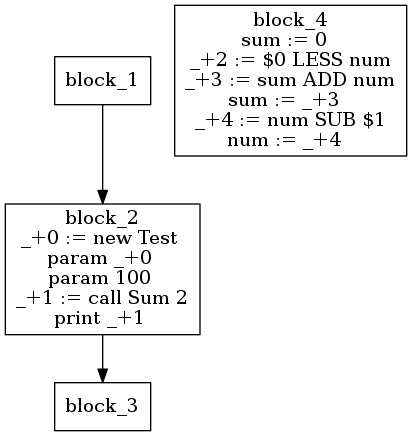
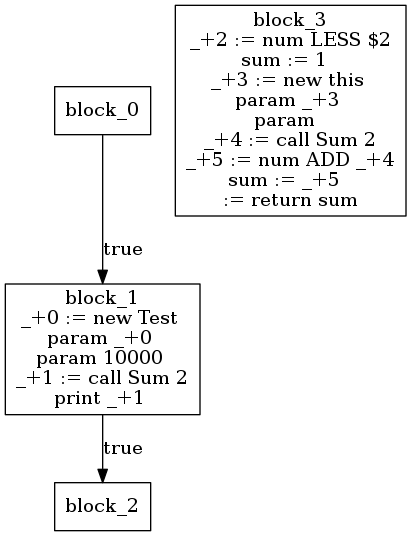
While and return

diff --git a/assignment_3/ir.h b/assignment_3/ir.h
@@ -1,5 +1,6 @@
 #include <string>
 #include <vector>
+#include <set>
 #include <iostream>
 #include "Node.h"
 
@@ -121,9 +122,9 @@ class MethodCall : public Tac {
     }
 };
 
-class Return : public Tac {
+class ReturnTac : public Tac {
     public:
-    Return(string op)
+    ReturnTac(string op)
     {   
         this->lhs = "return";
         this->op = op;
@@ -206,7 +207,7 @@ class BBlock {
 };
 
 class IR {
-    BBlock curr_block;
+    BBlock* curr_block;
     Node *save_root;
 
     public:
@@ -216,15 +217,14 @@ class IR {
         {
             
             this->save_root = root;
-            BBlock* curr_block = new BBlock;//create first block
+            curr_block = new BBlock;//create first block
             entryBlocks.push_back(curr_block);
-            BBlock* new_bb = create_bb(curr_block, save_root, symbol_table);
-            curr_block->trueExit = new_bb;
-
+            traverse_ast(root, symbol_table);
+            
             return;
         }
 
-        string traverse_ast(BBlock* parent_bb, Node* root, SymbolTable* symbol_table, string tempVar = "")
+        string traverse_ast(Node* root, SymbolTable* symbol_table, string tempVar = "")
         {
             cout << "traversing " << root->type << ", Children: "<< root->children.size() << endl;
             // Iterate on all children and add the corresponding TAC
@@ -249,7 +249,7 @@ class IR {
                 }
                 else
                 {
-                    lhs = traverse_ast(parent_bb, root->children.front(), symbol_table);
+                    lhs = traverse_ast(root->children.front(), symbol_table);
                 }
                 cout << "lhs: " << lhs << endl;
                 // rhs
@@ -259,7 +259,7 @@ class IR {
                 }
                 else
                 {
-                    rhs = traverse_ast(parent_bb, root->children.back(), symbol_table);
+                    rhs = traverse_ast(root->children.back(), symbol_table);
                 }
                 cout << "rhs: " << rhs << endl;
                 // op
@@ -275,7 +275,7 @@ class IR {
 
                 res = genNameTAC();  
                 Expression tac = Expression(op, lhs, rhs, res);
-                parent_bb->Tacs.push_back(tac);
+                curr_block->Tacs.push_back(tac);
                 cout << tac.dump() << endl;
                 cout << "exit expression handling for "<< root->type << endl;
                 
@@ -291,7 +291,7 @@ class IR {
                 string op = "!";
                 res = genNameTAC();
                 Unary_expression tac = Unary_expression(op, rhs, res);
-                parent_bb->Tacs.push_back(tac);
+                curr_block->Tacs.push_back(tac);
                 cout << tac.dump() << endl;
                 cout << "exit expression handling for "<< root->type << endl;
         
@@ -303,16 +303,16 @@ class IR {
                 {
                     op = "$" + root->children.front()->value;
                 } else {
-                    op = traverse_ast(parent_bb, root->children.front(), symbol_table);
+                    op = traverse_ast(root->children.front(), symbol_table);
                 }
 
                 Print tac = Print(op);
-                parent_bb->Tacs.push_back(tac);
+                curr_block->Tacs.push_back(tac);
 
             } else if (root->type == "STATEMENTBODY") {
                 for (std::list<Node *>::reverse_iterator child = root->children.rbegin(); child != root->children.rend(); child++)
                 {
-                   res = traverse_ast(parent_bb, *child, symbol_table);
+                   res = traverse_ast(*child, symbol_table);
                 }
 
             } else if(root->type == "MEMBER SELECTION FUNCTION CALL") {
@@ -327,10 +327,10 @@ class IR {
 
                         res = genNameTAC(); 
                         NewObj tac = NewObj(child->value, res);
-                        parent_bb->Tacs.push_back(tac);
+                        curr_block->Tacs.push_back(tac);
                         paramCount++;
                         Parameter paramTac = Parameter(res);
-                        parent_bb->Tacs.push_back(paramTac);
+                        curr_block->Tacs.push_back(paramTac);
                     } else if (counter == 1){
                         //method to call
                        selectionStr = child->value;
@@ -338,46 +338,78 @@ class IR {
                         // Parameter
                         paramCount++;
                         Parameter tac = Parameter(child->value);
-                        parent_bb->Tacs.push_back(tac);
+                        curr_block->Tacs.push_back(tac);
                     } 
                         counter++;
                 }
 
                 res = genNameTAC();  
                 MethodCall tac = MethodCall(selectionStr, to_string(paramCount), res);
-                parent_bb->Tacs.push_back(tac);
+                curr_block->Tacs.push_back(tac);
                 cout << tac.dump() << endl;
                 cout << "exit expression handling for "<< root->type << endl;
             
             } else if(root->type == "METHODDECLARATION") {
                 BBlock* new_bb = new BBlock;
                 entryBlocks.push_back(new_bb);
+                curr_block = new_bb;
                 for(auto const& child : root->children)
                 {
-                    res = traverse_ast(new_bb, child, symbol_table);
+                    res = traverse_ast(child, symbol_table);
+                }
+
+                if(root->children.back()->type == "IDENTIFIER") {
+                   string res = root->children.back()->value;
+                   ReturnTac tac = ReturnTac(res);
+                   curr_block->Tacs.push_back(tac);
+                   cout << tac.dump() << endl;
+                   
                 }
                 
             } else if(root->type == "EQUAL") {
                 string res = root->children.front()->value;
-                string lhs = traverse_ast(parent_bb, root->children.back(), symbol_table);
+                string lhs = traverse_ast(root->children.back(), symbol_table);
                 Copy tac = Copy(lhs, res);
-                parent_bb->Tacs.push_back(tac);
+                curr_block->Tacs.push_back(tac);
                 cout << tac.dump() << endl;
 
             } else if(root->type == "MAINCLASS") {
+                BBlock* main_bb = new BBlock;
+                BBlock* exit_bb = new BBlock;
+                curr_block->trueExit = main_bb;
+                curr_block = main_bb;
                 for(auto const& child : root->children)
                 {
-                   res = traverse_ast(parent_bb, child, symbol_table);
+                   res = traverse_ast(child, symbol_table);
                 }
-                parent_bb->trueExit =  new BBlock;//create exit block
+                entryBlocks.front()->trueExit->trueExit =  exit_bb;//create exit block
             
 
-            } else if(root->type == "INT") {
-                return root->value;
+            } else if(root->type == "WHILE") {
+                // condition front
+                BBlock* loopHeader = new BBlock;
+                curr_block->trueExit = loopHeader;
+                curr_block = loopHeader;
+                traverse_ast(root->children.front(), symbol_table);
+
+                // body back
+                BBlock* loopBody = new BBlock;
+                loopHeader->trueExit = loopBody;
+                loopBody->trueExit = loopHeader;
+                curr_block = loopBody;
+                traverse_ast(root->children.back(), symbol_table);
+
+                // loop exit
+                BBlock* loopExit = new BBlock;
+                loopHeader->falseExit = loopExit;
+                curr_block = loopExit;
+
+            } else if(root->type =="" ) {
+
             } else {
                 for(auto const& child : root->children)
                 {
-                   res = traverse_ast(parent_bb, child, symbol_table);
+                   res = traverse_ast(child, symbol_table);
                 }
             }
 
@@ -385,18 +417,9 @@ class IR {
             return res;
         }
 
-        BBlock* create_bb(BBlock* parent_bb, Node* root, SymbolTable* symbol_table) {
-            // Navigate all the BBs and solve the relations between them
-            cout << "create_bb" << endl;
-            BBlock* new_bb = new BBlock;
-            traverse_ast(new_bb, root, symbol_table);
 
-           
-
-            return new_bb;
-        }
-
-        // graph functions
+        // graph 
+        std::set<std::string> generatedBBs;
         BBlock* test_bb_graph() {
             BBlock* bb = new BBlock();
             bb->label = "1";
@@ -448,6 +471,7 @@ class IR {
         void generate_graph_bb(ofstream *outStream, BBlock *bb)
         {
             cout << "generate graph bb: "<< bb->label  << endl;
+            generatedBBs.insert(bb->label);
             
             // create current block
             *outStream << bb->label << " [label=\""<< bb->label << "\n";
@@ -465,8 +489,8 @@ class IR {
             cout << "create block relationships" << endl;
             if(bb->trueExit != NULL)
             {
-                *outStream << bb->label << " -> " << bb->trueExit->label << ";" << endl;
-                if(bb->trueExit !=bb)
+                *outStream << bb->label << " -> " << bb->trueExit->label << " [ label=\"true\"]" << ";" << endl;
+                if(bb->trueExit !=bb && generatedBBs.find(bb->trueExit->label) == generatedBBs.end() )
                 {
                     cout << "true exit" << endl;
                     generate_graph_bb(outStream, bb->trueExit);
@@ -479,7 +503,7 @@ class IR {
 
             if (bb->falseExit != NULL)
             {
-                *outStream << bb->label << " -> " << bb->falseExit->label << ";" << endl;
+                *outStream << bb->label << " -> " << bb->falseExit->label  << " [ label=\"false\"]" << ";" << endl;
                 generate_graph_bb(outStream, bb->falseExit);
             }
 
